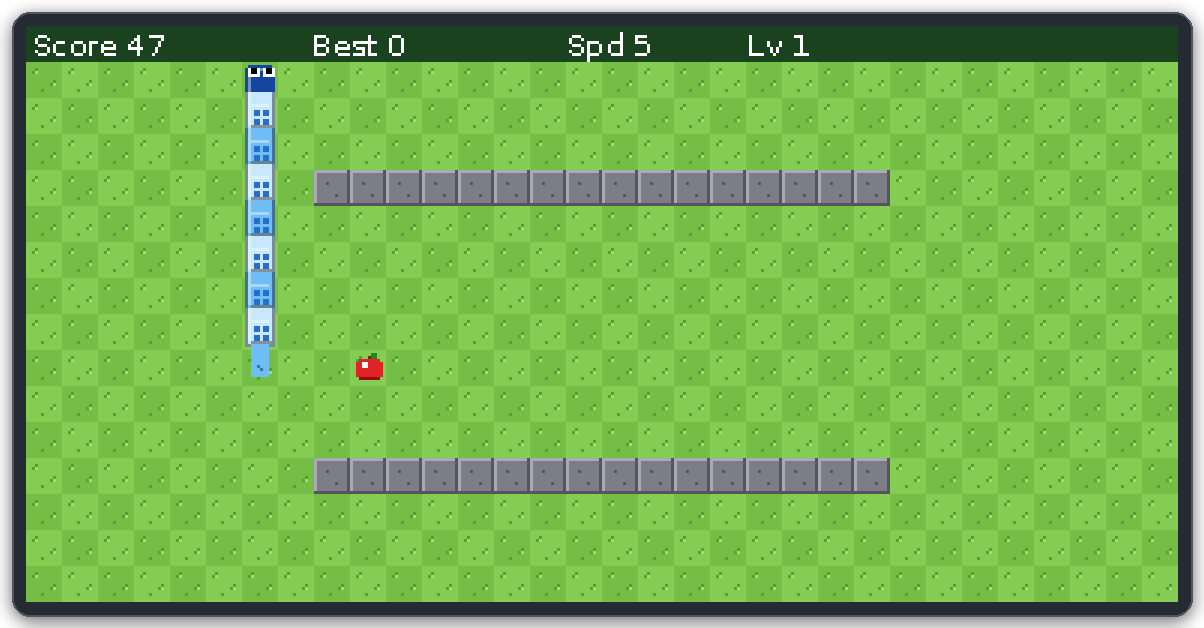
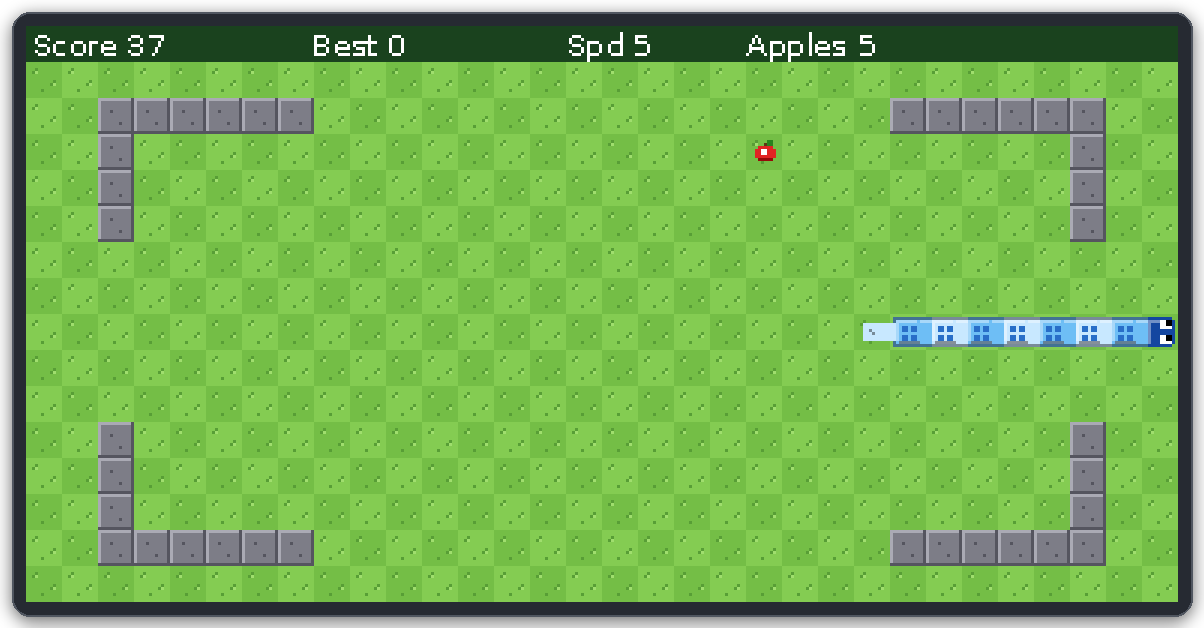
Snake v1.5: remove levels, new menu and stats screen
- No level system: speed stays as chosen, no mid-game pop-ups
- Maze picks a random layout each game
- Polished menu (cursor, arrows, key buttons) and redesigned stats screen
- New achievements replace the level-based ones
- Re-recorded GIF and screenshots

Claude-Session: https://claude.ai/code/session_016c2cFbm1SFFrbSLPWF8wvy

diff --git a/calculator/snake15.py b/calculator/snake15.py
@@ -1,23 +1,24 @@
 from casioplot import *
 from random import randint
-from sgfx14 import *
-# SNAKE v1.4 for fx-CG100 - made by Bilal Taha
-# Needs sgfx14.py on the calculator too. Arrows move, OK pauses, AC quits.
+from sgfx15 import *
+# SNAKE v1.5 for fx-CG100 - made by Bilal Taha
+# Needs sgfx15.py on the calculator too. Arrows move, OK pauses, AC quits.
 # DELAY: raise it if every speed is too fast, lower it if too slow.
 COLS=32;ROWS=15;DELAY=2500;POLLS=4;BUG_LIFE=30
 UP=14;DOWN=34;LEFT=23;RIGHT=25;OK=24;EXE=95
 DIRS={UP:(0,-1),DOWN:(0,1),LEFT:(-1,0),RIGHT:(1,0),62:(0,-1),82:(0,1),71:(-1,0),73:(1,0)}
 MODES=["Classic","Wrap","Maze"]
+DESC=["Walls kill you","Go through the walls","Dodge the stone walls"]
 START=[(6,10),(5,10),(4,10),(3,10)]
-ACH=[("Snack Time","Eat 10 apples in one game"),("Big Snake","Reach length 30"),
-("Bug Hunter","Catch 3 bugs in one game"),("Speed Demon","Reach speed 9"),
-("Explorer","Reach level 4"),("Century","Score 100 points"),
-("Legend","Score 500 points"),("Maze Runner","Reach level 3 in Maze")]
+ACH=[("Snack Time","10 apples in a game"),("Big Snake","Reach length 30"),
+("Bug Hunter","3 bugs in a game"),("Speed Demon","10 apples at speed 9"),
+("Feast","40 apples in a game"),("Century","Score 100"),
+("Legend","Score 500"),("Maze Runner","Score 100 in Maze")]
 GOT=[False]*8
 STATS={"games":0,"apples":0,"bugs":0,"longest":0}
 def check(g):
-  t=[g["apples"]>=10,g["len"]>=30,g["bugs"]>=3,g["spd"]>=9,g["lvl"]>=4,
-     g["score"]>=100,g["score"]>=500,g["mode"]==2 and g["lvl"]>=3]
+  t=[g["apples"]>=10,g["len"]>=30,g["bugs"]>=3,g["spd"]>=9 and g["apples"]>=10,g["apples"]>=40,
+     g["score"]>=100,g["score"]>=500,g["mode"]==2 and g["score"]>=100]
   new=[]
   for i in range(8):
     if t[i] and not GOT[i]:
@@ -27,7 +28,7 @@ def bar(st,col):
   draw_string(2,0,"Score "+str(st[0]),col,"small")
   draw_string(95,0,"Best "+str(st[1]),col,"small")
   draw_string(180,0,"Spd "+str(st[2]),col,"small")
-  draw_string(240,0,"Lv "+str(st[3]),col,"small")
+  draw_string(240,0,"Apples "+str(st[3]),col,"small")
 def maze(n):
   w=set();k=(n-1)%4
   if k==0:
@@ -66,12 +67,6 @@ def items(snake,d,cols,food,walls,bc):
   draw_snake(snake,d,cols)
 def board(snake,d,cols,food,walls,st):
   GRASS[0]=True;band();bar(st,WHITE);field();items(snake,d,cols,food,walls,None);show_screen()
-def overlay(lines,dl,snake,d,cols,food,walls,bc):
-  panel(92,64,200,64)
-  for (s,y,col,size) in lines:
-    draw_string(192-len(s)*(9 if size=="large" else 4),y,s,col,size)
-  show_screen();wait(dl)
-  ground(92,64,200,64);items(snake,d,cols,food,walls,bc);show_screen()
 def ready():
   draw_string(290,0,"Arrow = go",(255,220,80),"small");show_screen()
   k=getkey()
@@ -87,11 +82,11 @@ def pause(st):
   wait_release(OK)
   draw_string(2,0,"PAUSED - press OK",BAND,"small");bar(st,WHITE);show_screen()
 def play(mode,spd,best):
-  lvl=1;walls=maze(1) if mode==2 else set()
+  walls=maze(randint(1,4)) if mode==2 else set()
   snake=list(START);d=(1,0);cols=mkcols(3)
   food=place(snake,walls,())
   bc=None;bt=0;bw=0;bbase=5*spd;foods=0;score=0;bugs=0;tg=[];mv=0;maxlen=4
-  st=[score,best,spd,lvl]
+  st=[score,best,spd,foods]
   board(snake,d,cols,food,walls,st);last=ready()
   queue=[] if DIRS[last] in ((-1,0),(1,0)) else [DIRS[last]]
   while True:
@@ -116,7 +111,7 @@ def play(mode,spd,best):
     rest=snake if grow else snake[:-1]
     untongue(tg);tg=[]
     if nx<0 or nx>=COLS or ny<1 or ny>ROWS or n in rest or n in walls:
-      g={"apples":foods,"len":maxlen,"bugs":bugs,"spd":st[2],"lvl":lvl,"score":score,"mode":mode}
+      g={"apples":foods,"len":maxlen,"bugs":bugs,"spd":st[2],"score":score,"mode":mode}
       return score,snake,d,cols,g
     if not grow:
       t=snake.pop();cols.pop();cellg(t)
@@ -147,25 +142,8 @@ def play(mode,spd,best):
         bc=place(snake,walls,(food,));bt=BUG_LIFE;bw=80;bug(bc);box(300,3,80,6,BUG)
     elif mv%2==0:
       cellg(food);apple(food,mv%4==0)
-    if score!=st[0]:
-      bar(st,BAND);st[0]=score;bar(st,WHITE)
-    if grow and foods%10==0:
-      bar(st,BAND);lvl+=1;st[3]=lvl
-      if st[2]<9:
-        st[2]+=1
-      bar(st,WHITE);untongue(tg);tg=[]
-      if bc is not None:
-        cellg(bc);bc=None;box(300,3,80,6,BAND)
-      overlay([("LEVEL "+str(lvl),72,BAND,"large"),("Speed "+str(st[2])+" - food = "+str(st[2])+" pts",106,TXT,"small")],
-              DELAY*40,snake,d,cols,food,walls,None)
-      if mode==2:
-        walls=maze(lvl);snake=list(START);d=(1,0);queue=[];cols=mkcols(3)
-        food=place(snake,walls,());board(snake,d,cols,food,walls,st)
-        last=ready()
-        if DIRS[last] not in ((-1,0),(1,0)):
-          queue=[DIRS[last]]
-      else:
-        last=getkey()
+    if score!=st[0] or foods!=st[3]:
+      bar(st,BAND);st[0]=score;st[3]=foods;bar(st,WHITE)
     show_screen()
 def death(snake,d,cols):
   for i in range(3):
@@ -182,28 +160,42 @@ def death(snake,d,cols):
       show_screen()
   poof(snake[0],CUR[0]);show_screen()
   ghost(snake[0],6,DELAY*3)
-def menu_text(mode,spd,sk,row,best):
-  t=[("> " if r==row else "  ")+["Mode   <  "+MODES[mode]+"  >","Speed  <  "+str(spd)+"  >","Skin   <  "+SKINS[sk][0]+"  >"][r] for r in range(3)]
-  t.append("Food = "+str(spd)+" pts     Best: "+str(best[mode]))
-  return t
+def mrow(r,v,how):
+  y=58+r*20;sel=how=="sel"
+  col=WHITE if how=="off" else (CUR[0] if sel else TXT)
+  box(64,y+3,10,10,WHITE) if not sel else cursor(64,y+3,CUR[0])
+  draw_string(84,y,["Mode","Speed","Skin"][r],col,"medium")
+  draw_string(244-len(v[r])*4,y,v[r],col,"medium")
+  tri(178,y+3,-1,col if sel else WHITE);tri(304,y+3,1,col if sel else WHITE)
+def info(mode,spd,best,col):
+  t=DESC[mode]+"  -  "+str(spd)+" pts/apple  -  Best "+str(best[mode])
+  draw_string(192-len(t)*3,121,t,col,"small")
+def skinparts():
+  logo();draw_snake([(x,3) for x in range(19,11,-1)],(1,0),mkcols(7));apple((22,3))
+  frame(48,52,288,88,LINE);frame(50,54,284,84,CUR[0])
+  x=chip(58,146,"EXE",CUR[0]);draw_string(x,146,"Start",TXT,"small")
+  x=chip(160,146,"OK",CUR[0]);draw_string(x,146,"Stats",TXT,"small")
+  x=chip(256,146,"AC",CUR[0]);draw_string(x,146,"Quit",TXT,"small")
 def title(mode,spd,sk,best):
   skin(sk);GRASS[0]=False;menubg()
   draw_string(286,40,"by Bilal Taha",GREY,"small")
-  frame(56,52,272,92,LINE);frame(58,54,268,88,BAND)
-  draw_string(28,152,"Up/Down choose  Left/Right change",GREY,"small")
-  draw_string(30,166,"EXE = start",BAND,"medium");draw_string(230,166,"OK = stats",BAND,"medium")
+  draw_string(88,166,"Up/Down select    Left/Right change",SOFT,"small")
   row=0;old=None
   while True:
-    txt=menu_text(mode,spd,sk,row,best)
-    if txt!=old:
-      for r in range(4):
-        sz="medium" if r<3 else "small"
-        if old:
-          draw_string(68,60+r*21,old[r],WHITE,sz)
-        draw_string(68,60+r*21,txt[r],(RED if r==row else TXT) if r<3 else GREY,sz)
-      if old is None or old[2]!=txt[2]:
-        skin(sk);logo();draw_snake([(x,3) for x in range(19,11,-1)],(1,0),mkcols(7));apple((22,3))
-      show_screen();old=txt
+    v=[MODES[mode],str(spd),SKINS[sk][0]]
+    cur=(mode,spd,sk,row)
+    if cur!=old:
+      if old:
+        ov=[MODES[old[0]],str(old[1]),SKINS[old[2]][0]]
+        for r in range(3):
+          mrow(r,ov,"off")
+        info(old[0],old[1],best,WHITE)
+      if old is None or old[2]!=sk:
+        skin(sk);skinparts()
+      for r in range(3):
+        mrow(r,v,"sel" if r==row else "on")
+      info(mode,spd,best,GREY)
+      show_screen();old=cur
     k=getkey()
     if k==UP or k==DOWN:
       row=(row+(1 if k==DOWN else -1))%3;wait_release(k)
@@ -221,15 +213,26 @@ def title(mode,spd,sk,best):
     elif k==EXE:
       wait_release(k);skin(sk);return mode,spd,sk
 def stats(best):
-  clear_screen();band();draw_string(150,0,"STATS",WHITE,"small")
+  clear_screen();band();h=CUR[0]
+  draw_string(170,0,"STATS",WHITE,"small");draw_string(300,0,"by Bilal Taha",(170,200,170),"small")
   S=STATS
-  draw_string(10,18,"Games "+str(S["games"])+"   Apples "+str(S["apples"])+"   Bugs "+str(S["bugs"]),TXT,"small")
-  draw_string(10,32,"Longest "+str(S["longest"])+"   Best  C:"+str(best[0])+"  W:"+str(best[1])+"  M:"+str(best[2]),TXT,"small")
-  draw_string(10,50,"ACHIEVEMENTS  "+str(sum(GOT))+"/8",BAND,"medium")
+  for i,(lab,val) in enumerate((("Games",S["games"]),("Apples",S["apples"]),("Bugs",S["bugs"]),("Longest",S["longest"]))):
+    x=6+i*95
+    frame(x,16,88,36,LINE);box(x+1,17,86,3,h)
+    v=str(val);draw_string(x+44-len(v)*5,18,v,TXT,"large")
+    draw_string(x+44-len(lab)*3,39,lab,GREY,"small")
+  t="Best   Classic "+str(best[0])+"    Wrap "+str(best[1])+"    Maze "+str(best[2])
+  draw_string(192-len(t)*3,56,t,TXT,"small")
+  n=sum(GOT)
+  draw_string(6,70,"ACHIEVEMENTS",h,"medium");draw_string(132,72,str(n)+" / 8",GREY,"small")
+  frame(190,74,188,8,LINE);box(191,75,186*n//8,6,GOLD)
   for i in range(8):
-    draw_string(10,68+i*12,("[x] " if GOT[i] else "[ ] ")+ACH[i][0]+" - "+ACH[i][1],GOLD if GOT[i] else GREY,"small")
-  draw_string(10,164,"Note: stats reset when you quit or power off!",RED,"small")
-  draw_string(10,178,"made by Bilal Taha",GREY,"small");draw_string(280,178,"OK = back",BAND,"small")
+    x=6+(i%2)*190;y=88+(i//2)*22
+    tick(x,y+2,GOT[i])
+    draw_string(x+16,y,ACH[i][0],GREEN if GOT[i] else GREY,"small")
+    draw_string(x+16,y+10,ACH[i][1],SOFT,"small")
+  draw_string(6,180,"Stats reset when you quit or power off",RED,"small")
+  x=chip(300,179,"OK",h);draw_string(x,180,"Back",TXT,"small")
   show_screen()
   while getkey()!=OK:
     pass
@@ -238,7 +241,7 @@ def game_over(score,best,newbest,g,new):
   panel(62,36,260,124)
   shadow(116,44,"GAME OVER",RED)
   draw_string(90,78,"Score "+str(score)+"    Best "+str(best),TXT,"medium")
-  draw_string(90,98,"Length "+str(g["len"])+"   Level "+str(g["lvl"])+"   Bugs "+str(g["bugs"]),GREY,"small")
+  draw_string(90,98,"Length "+str(g["len"])+"   Apples "+str(g["apples"])+"   Bugs "+str(g["bugs"]),GREY,"small")
   y=112
   if newbest:
     draw_string(155,y,"NEW BEST!",GOLD,"small");y+=11

diff --git a/calculator/sgfx15.py b/calculator/sgfx15.py
@@ -1,6 +1,6 @@
 from casioplot import *
 from random import randint
-# Graphics + skins for snake14.py v1.4 (keep both files on the calculator)
+# Graphics + skins for snake15.py v1.5 (keep both files on the calculator)
 CELL=12
 G1=(132,204,82);G2=(116,190,70);GB=(88,158,54);GL=(160,222,110)
 BL=((2,3),(3,2),(8,7),(9,6),(5,9));HL=((3,3),(9,7))
@@ -227,7 +227,7 @@ def menubg():
   clear_screen()
   for y in range(4,186,8):
     for x in range((y//8)%2*4+2,384,8):
-      if not (54<=x<=330 and 50<=y<=146):
+      if not (44<=x<=340 and 48<=y<=178):
         set_pixel(x,y,(200,225,190))
   for x in range(384):
     for y in range(186,192):
@@ -235,3 +235,20 @@ def menubg():
     if x%7==0:
       set_pixel(x,185,G2);set_pixel(x,184,GB)
       set_pixel(x+2 if x<382 else x,185,G1)
+GREEN=(35,150,55);SOFT=(150,150,150)
+def tri(x,y,dr,col):
+  for i in range(5):
+    box(x+(i if dr>0 else 4-i),y+i,1,9-2*i,col)
+def chip(x,y,lab,col):
+  w=len(lab)*6+8
+  box(x,y,w,13,col);draw_string(x+4,y+1,lab,WHITE,"small")
+  return x+w+5
+def cursor(x,y,col):
+  box(x,y,10,10,col);box(x+5,y+2,4,3,WHITE);box(x+7,y+3,2,2,EYE)
+def tick(x,y,ok):
+  if ok:
+    box(x,y,10,10,GREEN)
+    for (u,v) in ((2,5),(3,6),(4,7),(5,6),(6,5),(7,4),(8,3)):
+      set_pixel(x+u,y+v,WHITE)
+  else:
+    frame(x,y,10,10,SOFT)

diff --git a/README.md b/README.md
@@ -8,9 +8,11 @@ It's written in MicroPython with Casio's built-in `casioplot` module, so it runs
 
 <p align="center"><img src="screenshots/gameplay.gif" alt="Snake gameplay" width="768"></p>
 
-| Title screen | Maze mode | Game over |
-|---|---|---|
-| ![Title screen](screenshots/title.png) | ![Maze mode](screenshots/maze.png) | ![Game over](screenshots/gameover.png) |
+| Menu | Stats & achievements |
+|---|---|
+| ![Menu](screenshots/title.png) | ![Stats](screenshots/stats.png) |
+| **Maze mode** | **Game over** |
+| ![Maze mode](screenshots/maze.png) | ![Game over](screenshots/gameover.png) |
 
 **9 skins**, and the logo changes colour to match:
 
@@ -22,24 +24,23 @@ It's written in MicroPython with Casio's built-in `casioplot` module, so it runs
 
 ## ✨ Features
 
-- **3 modes:** Classic (walls kill you), Wrap (leave one edge, come back on the other) and Maze (4 wall layouts that change as you level up)
+- **3 modes:** Classic (walls kill you), Wrap (leave one edge, come back on the other) and Maze (one of 4 wall layouts, picked at random each game)
 - **Nokia-style scoring:** every apple is worth your current speed, from 1 to 9 points
-- **Levels:** every 10 apples the snake speeds up and apples are worth more
 - **Bonus bug:** appears every 5 apples. The faster you catch it, the more it's worth, and if you miss one the next is worth more
 - **9 skins:** Classic, Python, Royal, Fire, Ice, Gold, Grape, Pink and Rainbow, each with its own pattern. The SNAKE logo changes colour to match
 - **Textured grass field**, flicking tongue, pulsing apples, wiggling bugs
 - **Death animation:** the head flashes, the body bursts and a little ghost floats away
-- **8 achievements** and a stats screen
+- **8 achievements** and a stats screen with your totals, best scores and progress
 
 ## 📥 Install
 
 1. Download the two files from the [`calculator`](calculator) folder:
-   - `snake14.py`: the game
-   - `sgfx14.py`: graphics and skins
+   - `snake15.py`: the game
+   - `sgfx15.py`: graphics and skins
 2. Connect the calculator to your computer with a USB cable and choose **USB Flash** on the calculator.
 3. Copy **both** files to the **top level** of the calculator drive, not into a folder.
 4. Eject the drive on your computer, wait for **"Complete!"** on the calculator, press **OK**, then unplug.
-5. On the calculator, go to **HOME → Python → TOOLS → File → Open**, pick **`snake14.py`** and run it.
+5. On the calculator, go to **HOME → Python → TOOLS → File → Open**, pick **`snake15.py`** and run it.
 
 ## 🎮 Controls
 
@@ -72,10 +73,10 @@ sudo apt install python3-tk python3-pil
 
 # run it
 cd calculator
-PYTHONPATH=../pc-simulator python3 snake14.py
+PYTHONPATH=../pc-simulator python3 snake15.py
 ```
 
-On Windows or Mac, install Python and `pip install pillow`, then copy `casioplot.py` into the `calculator` folder and run `python snake14.py`.
+On Windows or Mac, install Python and `pip install pillow`, then copy `casioplot.py` into the `calculator` folder and run `python snake15.py`.
 
 PC keys: arrows = arrows, Enter = EXE, Space or O = OK, Esc = quit.
 
@@ -83,11 +84,11 @@ PC keys: arrows = arrows, Enter = EXE, Space or O = OK, Esc = quit.
 
 ## ⚙ Tuning
 
-If every speed feels too fast or too slow on your calculator, change `DELAY=2500` near the top of `snake14.py`. A higher number makes the game slower.
+If every speed feels too fast or too slow on your calculator, change `DELAY=2500` near the top of `snake15.py`. A higher number makes the game slower.
 
 ## 📝 Versions
 
-Calculator file names can't contain dots, so the version is in the name: `snake14.py` + `sgfx14.py` = **v1.4**. To update, delete the old pair from the calculator and copy the new pair.
+Calculator file names can't contain dots, so the version is in the name: `snake15.py` + `sgfx15.py` = **v1.5**. To update, delete the old pair from the calculator and copy the new pair.
 
 ## 📄 License
 
